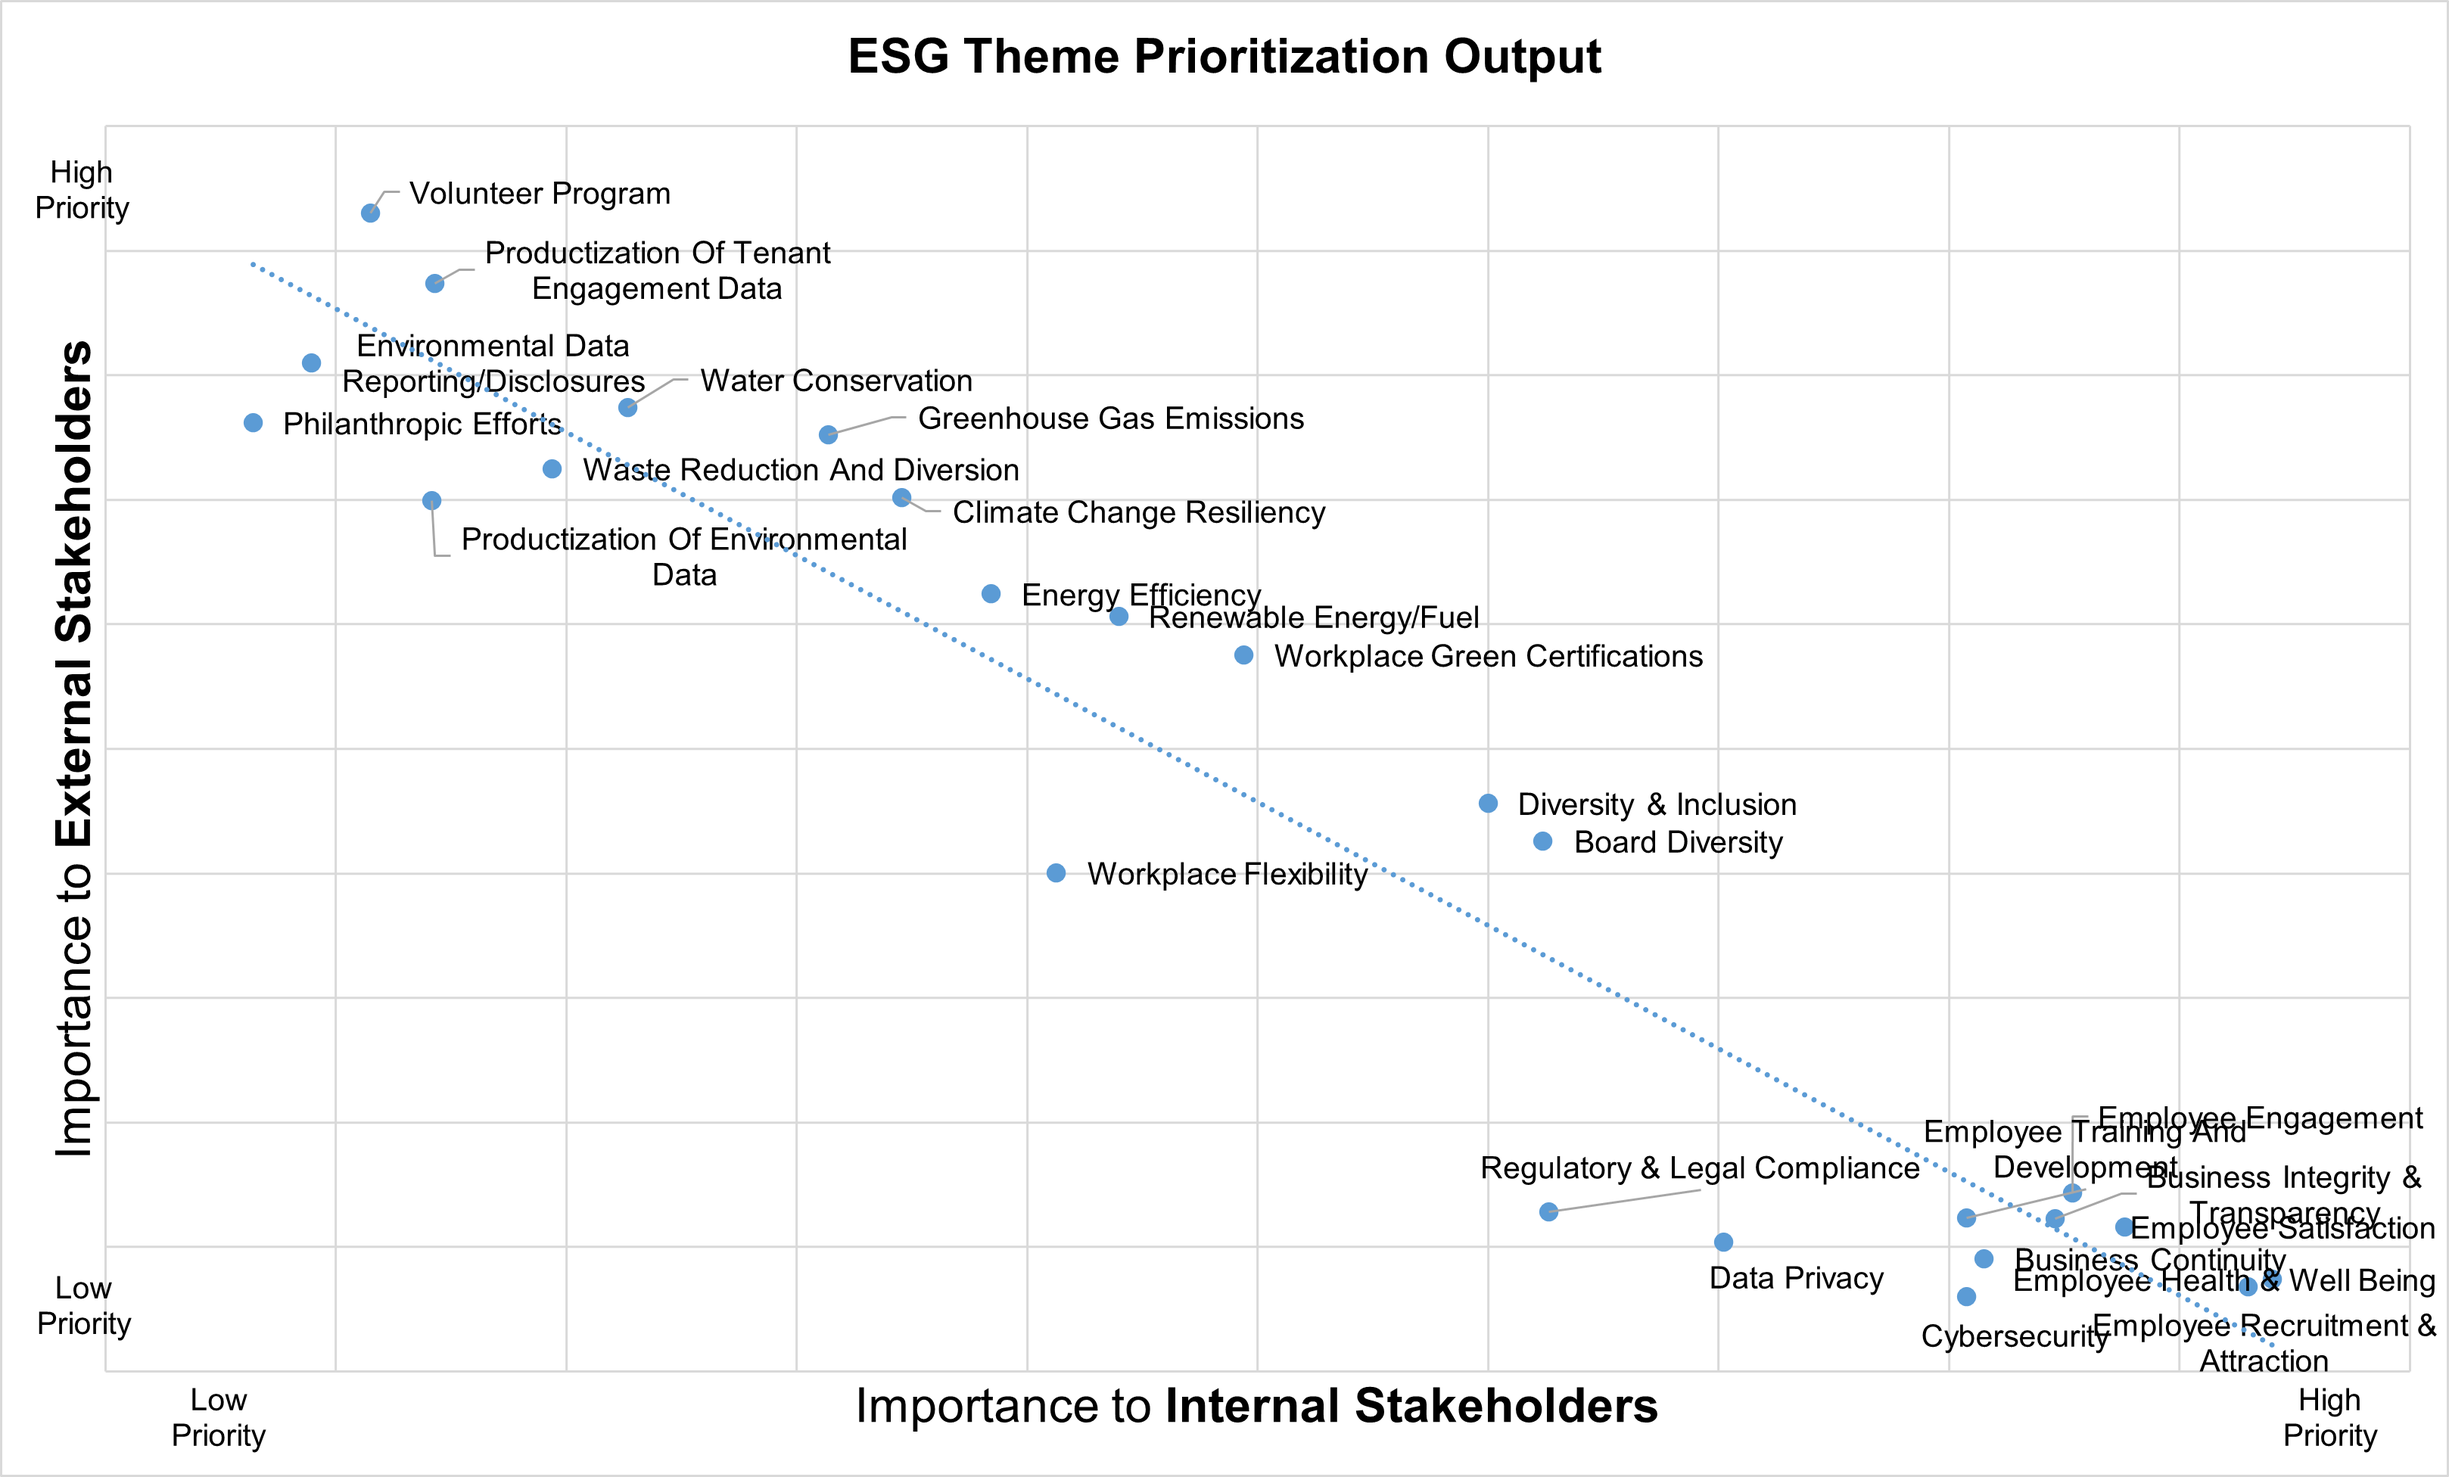
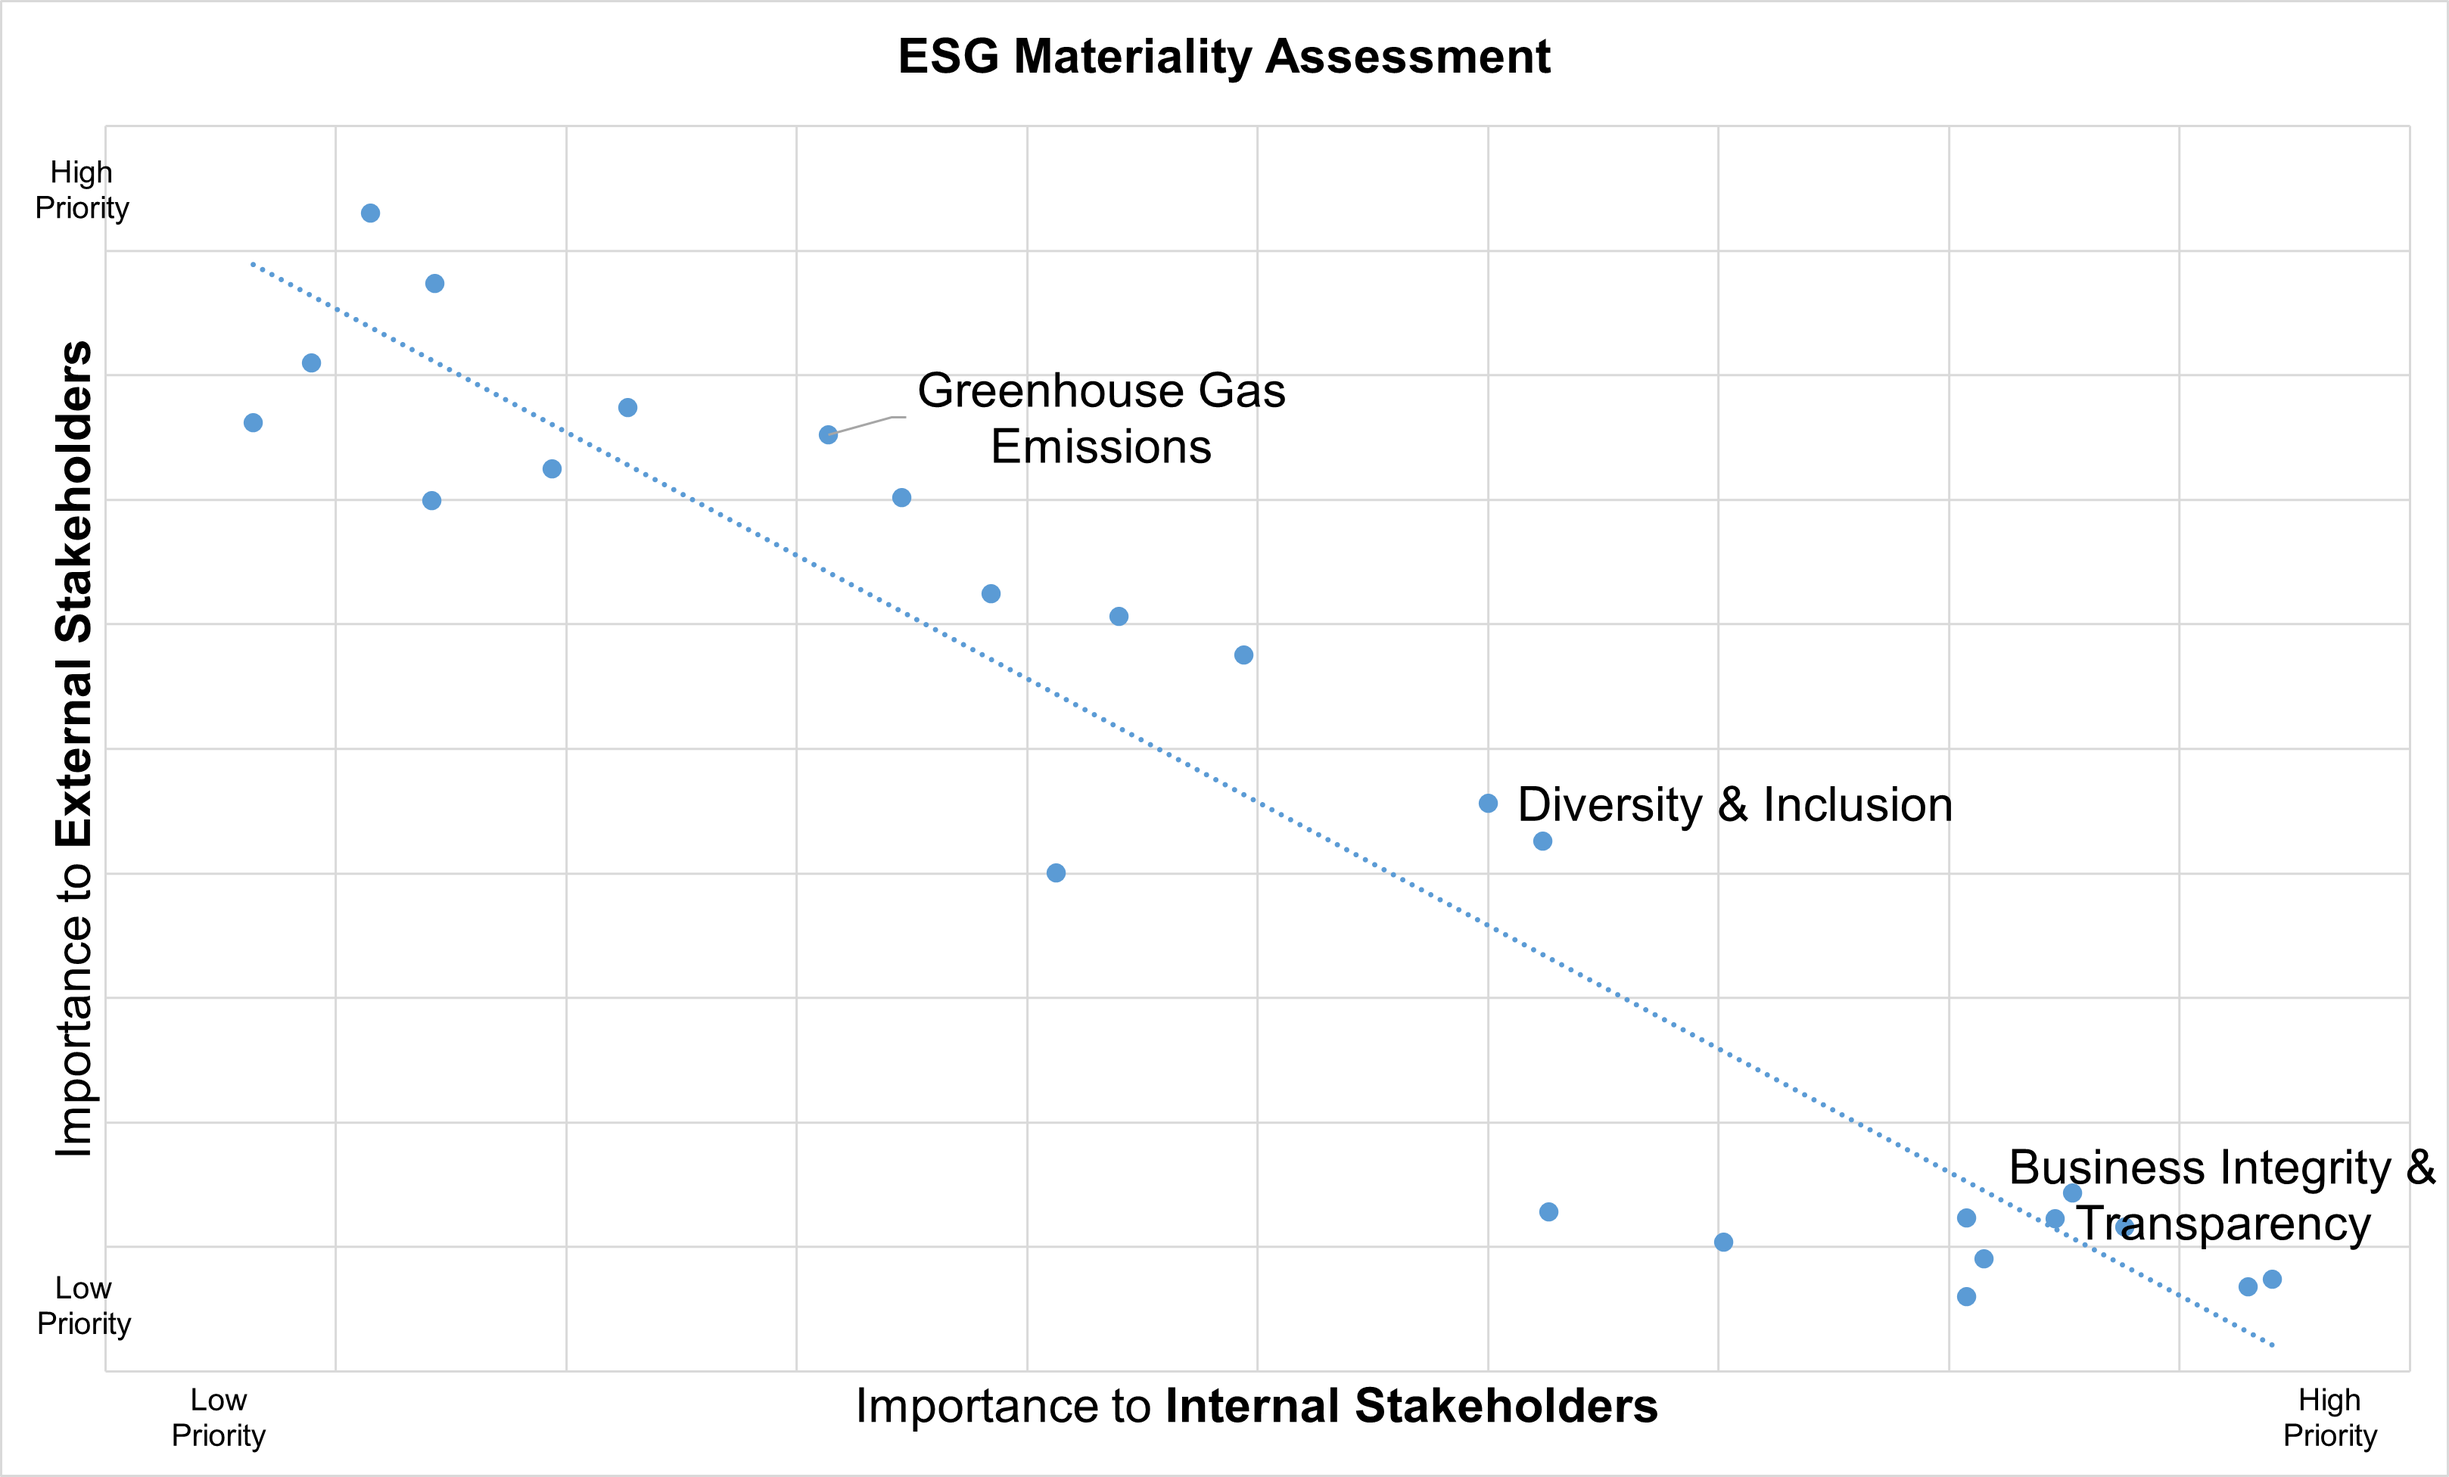
consensus-updates

diff --git a/stakeholder/Controls.html b/stakeholder/Controls.html
@@ -9,7 +9,7 @@
 
 <div class="card mb-3">
     <div class="card-body">
-        <h5 class="mb-3">1. I am generally a person who is willing to take risks or I try to avoid taking risks.</h5>
+        <h5 class="mb-3">1. I am generally a person who is willing to take risks.</h5>
         
         <div class="form-group">            <div class="row text-center g-0">
                 <div class="col">
@@ -214,7 +214,59 @@
     </div>
 </div>
 
-
+<div class="card mb-3">
+    <div class="card-body">
+        <h5 class="mb-3">5. I prefer to avoid conflicts and strive for harmony in group settings.</h5>
+        
+        <div class="form-group">
+            <div class="row text-center g-0">
+                <div class="col">
+                    <div class="form-check d-flex flex-column align-items-center">
+                        <input class="form-check-input mb-2" type="radio" name="harmony_seeking" value="1" required id="harmony_seeking_1">
+                        <label class="form-check-label small text-center" for="harmony_seeking_1">Strongly<br>disagree</label>
+                    </div>
+                </div>
+                <div class="col">
+                    <div class="form-check d-flex flex-column align-items-center">
+                        <input class="form-check-input mb-2" type="radio" name="harmony_seeking" value="2" required id="harmony_seeking_2">
+                        <label class="form-check-label small text-center" for="harmony_seeking_2">Disagree</label>
+                    </div>
+                </div>
+                <div class="col">
+                    <div class="form-check d-flex flex-column align-items-center">
+                        <input class="form-check-input mb-2" type="radio" name="harmony_seeking" value="3" required id="harmony_seeking_3">
+                        <label class="form-check-label small text-center" for="harmony_seeking_3">Somewhat<br>disagree</label>
+                    </div>
+                </div>
+                <div class="col">
+                    <div class="form-check d-flex flex-column align-items-center">
+                        <input class="form-check-input mb-2" type="radio" name="harmony_seeking" value="4" required id="harmony_seeking_4">
+                        <label class="form-check-label small text-center" for="harmony_seeking_4">Neutral</label>
+                    </div>
+                </div>
+                <div class="col">
+                    <div class="form-check d-flex flex-column align-items-center">
+                        <input class="form-check-input mb-2" type="radio" name="harmony_seeking" value="5" required id="harmony_seeking_5">
+                        <label class="form-check-label small text-center" for="harmony_seeking_5">Somewhat<br>agree</label>
+                    </div>
+                </div>
+                <div class="col">
+                    <div class="form-check d-flex flex-column align-items-center">
+                        <input class="form-check-input mb-2" type="radio" name="harmony_seeking" value="6" required id="harmony_seeking_6">
+                        <label class="form-check-label small text-center" for="harmony_seeking_6">Agree</label>
+                    </div>
+                </div>
+                <div class="col">
+                    <div class="form-check d-flex flex-column align-items-center">
+                        <input class="form-check-input mb-2" type="radio" name="harmony_seeking" value="7" required id="harmony_seeking_7">
+                        <label class="form-check-label small text-center" for="harmony_seeking_7">Strongly<br>agree</label>
+                    </div>
+                </div>
+            </div>
+        </div>
+        {{ formfield_errors 'harmony_seeking' }}
+    </div>
+</div>
 
 <div class="card">
     <div class="card-body text-center">

diff --git a/stakeholder/Condition2.html b/stakeholder/Condition2.html
@@ -1,14 +1,21 @@
 {{ block title }}ESG Materiality Disclosures (2 of 2){{ endblock }}
 {{ block content }}
     <p>
-        In addition to the information about the engaged stakeholder's relevance, you noted <b> the following ESG theme prioritization chart</b>.
+        In addition to the information about the engaged stakeholder's relevance, you captured the following ESG materiality assessment chart.
     </p>
     
+    <p><b>Examples of ESG themes:</b></p>
+    <ul>
+        <li>E (Environment) = Greenhouse Gas Emissions – the relevance of reducing GHG</li>
+        <li>S (Social) = Diversity & Inclusion – the relevance of supporting diversity and inclusion</li>
+        <li>G (Governance) = Regulatory & Legal Compliance – the relevance of adhering to business integrity and transparency</li>
+    </ul>
 
     {% if stakeholder_consensus == 'Low Stakeholder Consensus' %}
     <p>
         The <b>downward facing trendline</b> indicates a <b>low consensus</b> between the internal and external stakeholder priorities. 
         In other words, internal stakeholders deem ESG themes as relevant that are not deemed as relevant by external stakeholders and vice versa.
+        <b>For the examples above, the consensus between internal and external stakeholders is low.</b>
     </p>
     <img src="/static/images/Negative.png" alt="Figure1" style="max-width:100%; height:auto;">
         <p>
@@ -20,6 +27,7 @@
     <p>
         The <b>upward facing trendline</b> indicates a <b>high consensus</b> between the internal and external stakeholder priorities. 
         In other words, <b>internal stakeholders deem ESG themes as relevant that are also deemed as relevant by external stakeholders and vice versa</b>.
+        <b>For the examples above, the consensus between internal and external stakeholders is high.</b>
     </p>
     <img src="/static/images/Positive.png" alt="Figure1" style="max-width:100%; height:auto;">
         <p>

diff --git a/stakeholder/Introduction.html b/stakeholder/Introduction.html
@@ -14,8 +14,14 @@
         <div class="form-group mb-4">
             <p class="card-text">
                 The next screen contains information about a hypothetical publicly traded company, Acme LLC. 
-                As an investment analyst, you will be asked to set a target price for Acme's stock after reviewing their newest environmental, social, and governance (ESG) materiality disclosures.
+                As an investment analyst, you will be asked to set a target price for Acme's stock after reviewing their newest environmental, social, and governance (ESG) materiality assessment.
             </p>
+        </div>
+
+        <div class="form-group mb-4">
+            <p class="card-text">
+                The ESG materiality assessment is informed by internal and external stakeholder perspectives on what ESG issues are most relevant to Acme's business operations.
+                An example for internal stakeholders would be Acme's employees, executive management, board of directors, chairman, or CEO, while an example for external stakeholders would be Acme's customers, investors, suppliers, regulators, NGOs, community members, or media.            </p>
         </div>
 
         <div class="form-group mb-4">

diff --git a/stakeholder/Background.html b/stakeholder/Background.html
@@ -6,7 +6,7 @@
         
         <div class="card-text mb-4">
             <p class="mb-3">
-                Below is Acme's stock performance data prior to the ESG materiality disclosure. 
+                Below is Acme's stock performance data prior to the ESG materiality assessment. 
             </p>
         </div>        <div class="card bg-light mb-4">
             <div class="card-body">

diff --git a/stakeholder/Assessment.html b/stakeholder/Assessment.html
@@ -4,7 +4,7 @@
 <!-- <h5>Set Your Target Price</h5> -->
 
 <p>
-    As a financial analyst, you are asked to provide your target price assessment for Acme, following their latest ESG materiality disclosures.
+    As a financial analyst, you are asked to provide your target price assessment for Acme, following their latest ESG materiality assessment.
 </p>
 
 <div class="card">

diff --git a/stakeholder/__init__.py b/stakeholder/__init__.py
@@ -34,9 +34,6 @@ class Group(BaseGroup):
     returned_amount = models.CurrencyField()  # Automatically calculated
 
 class Player(BasePlayer):
-    # Field to store whether checks come before assessment
-    checks_before_assessment = models.BooleanField(initial=None)
-    
     # Add the missing 'stakeholder_consensus' field
     stakeholder_consensus = models.StringField(
         label="Stakeholder Consensus",
@@ -77,6 +74,12 @@ class Player(BasePlayer):
     )
     esg_relevance = models.IntegerField(
         label="How strongly do you personally agree that companies should sacrifice profitability to promote ESG themes?",
+        choices=[[i, str(i)] for i in range(1, 8)],
+        widget=widgets.RadioSelectHorizontal,
+    )
+    
+    harmony_seeking = models.IntegerField(
+        label="I prefer to avoid conflicts and strive for harmony in group settings.",
         choices=[[i, str(i)] for i in range(1, 8)],
         widget=widgets.RadioSelectHorizontal,
     )
@@ -208,9 +211,6 @@ def creating_session(subsession: Subsession):
             condition, stakeholder_consensus = combined_conditions[i % len(combined_conditions)]
             p.condition = condition
             p.stakeholder_consensus = stakeholder_consensus
-            
-            # Randomly determine if checks come before or after assessment
-            p.checks_before_assessment = random.choice([True, False])
 
 
 # # Function for live experiment << random assignment
@@ -272,42 +272,6 @@ class Checks(Page):
         'stakeholder_attributes',
         'trendline',
     ]
-            
-    @staticmethod
-    def before_next_page(player: Player, timeout_happened):
-        # Process the internal stakeholders string
-        if player.internal_stakeholders_responses:
-            # Parse the string of T/F values to determine which options were selected
-            options = ["Investors", "Suppliers", "Customers", "Regulators", 
-                      "NGOs", "Community", "Media", "Other"]
-            
-            selected = []
-            for i, char in enumerate(player.internal_stakeholders_responses):
-                if char == 'T' and i < len(options):
-                    selected.append(options[i])
-            
-            # If "Other" was selected, add the text response
-            if "Other" in selected and player.internal_stakeholders_other_text:
-                selected[-1] = f"Other: {player.internal_stakeholders_other_text}"
-            
-            print(f"Internal stakeholders selected: {', '.join(selected)}")
-        
-        # Process the external stakeholders string
-        if player.external_stakeholders_responses:
-            # Parse the string of T/F values to determine which options were selected
-            options = ["Employees", "Executive Management", "Board of Directors", 
-                      "Chairman", "CEO", "Other"]
-            
-            selected = []
-            for i, char in enumerate(player.external_stakeholders_responses):
-                if char == 'T' and i < len(options):
-                    selected.append(options[i])
-            
-            # If "Other" was selected, add the text response
-            if "Other" in selected and player.external_stakeholders_other_text:
-                selected[-1] = f"Other: {player.external_stakeholders_other_text}"
-            
-            print(f"External stakeholders selected: {', '.join(selected)}")
 
 class StakeholderSelection(Page):
     form_model = 'player'
@@ -356,7 +320,8 @@ class Controls(Page):
         'risk_attitudes',
         'esg_familiarity', 
         'disclosure_credibility',
-        'esg_relevance'
+        'esg_relevance',
+        'harmony_seeking'
     ]
 
 class Demographics(Page):
@@ -452,14 +417,8 @@ page_sequence = [
     Background,
     Condition1,
     Condition2,
-    # Path 1: Checks before Assessment (only one path will be shown)
-    ChecksBefore,      # Only shown if checks_before_assessment is True
-    AssessmentAfter,   # Only shown if checks_before_assessment is True
-    # Path 2: Assessment before Checks (only one path will be shown)
-    AssessmentBefore,  # Only shown if checks_before_assessment is False
-    ChecksAfter,       # Only shown if checks_before_assessment is False
-    # Continue with normal flow
-    StakeholderSelection,
+    Assessment,
+    Checks,
     Controls,
     Demographics,
     Thanks,
